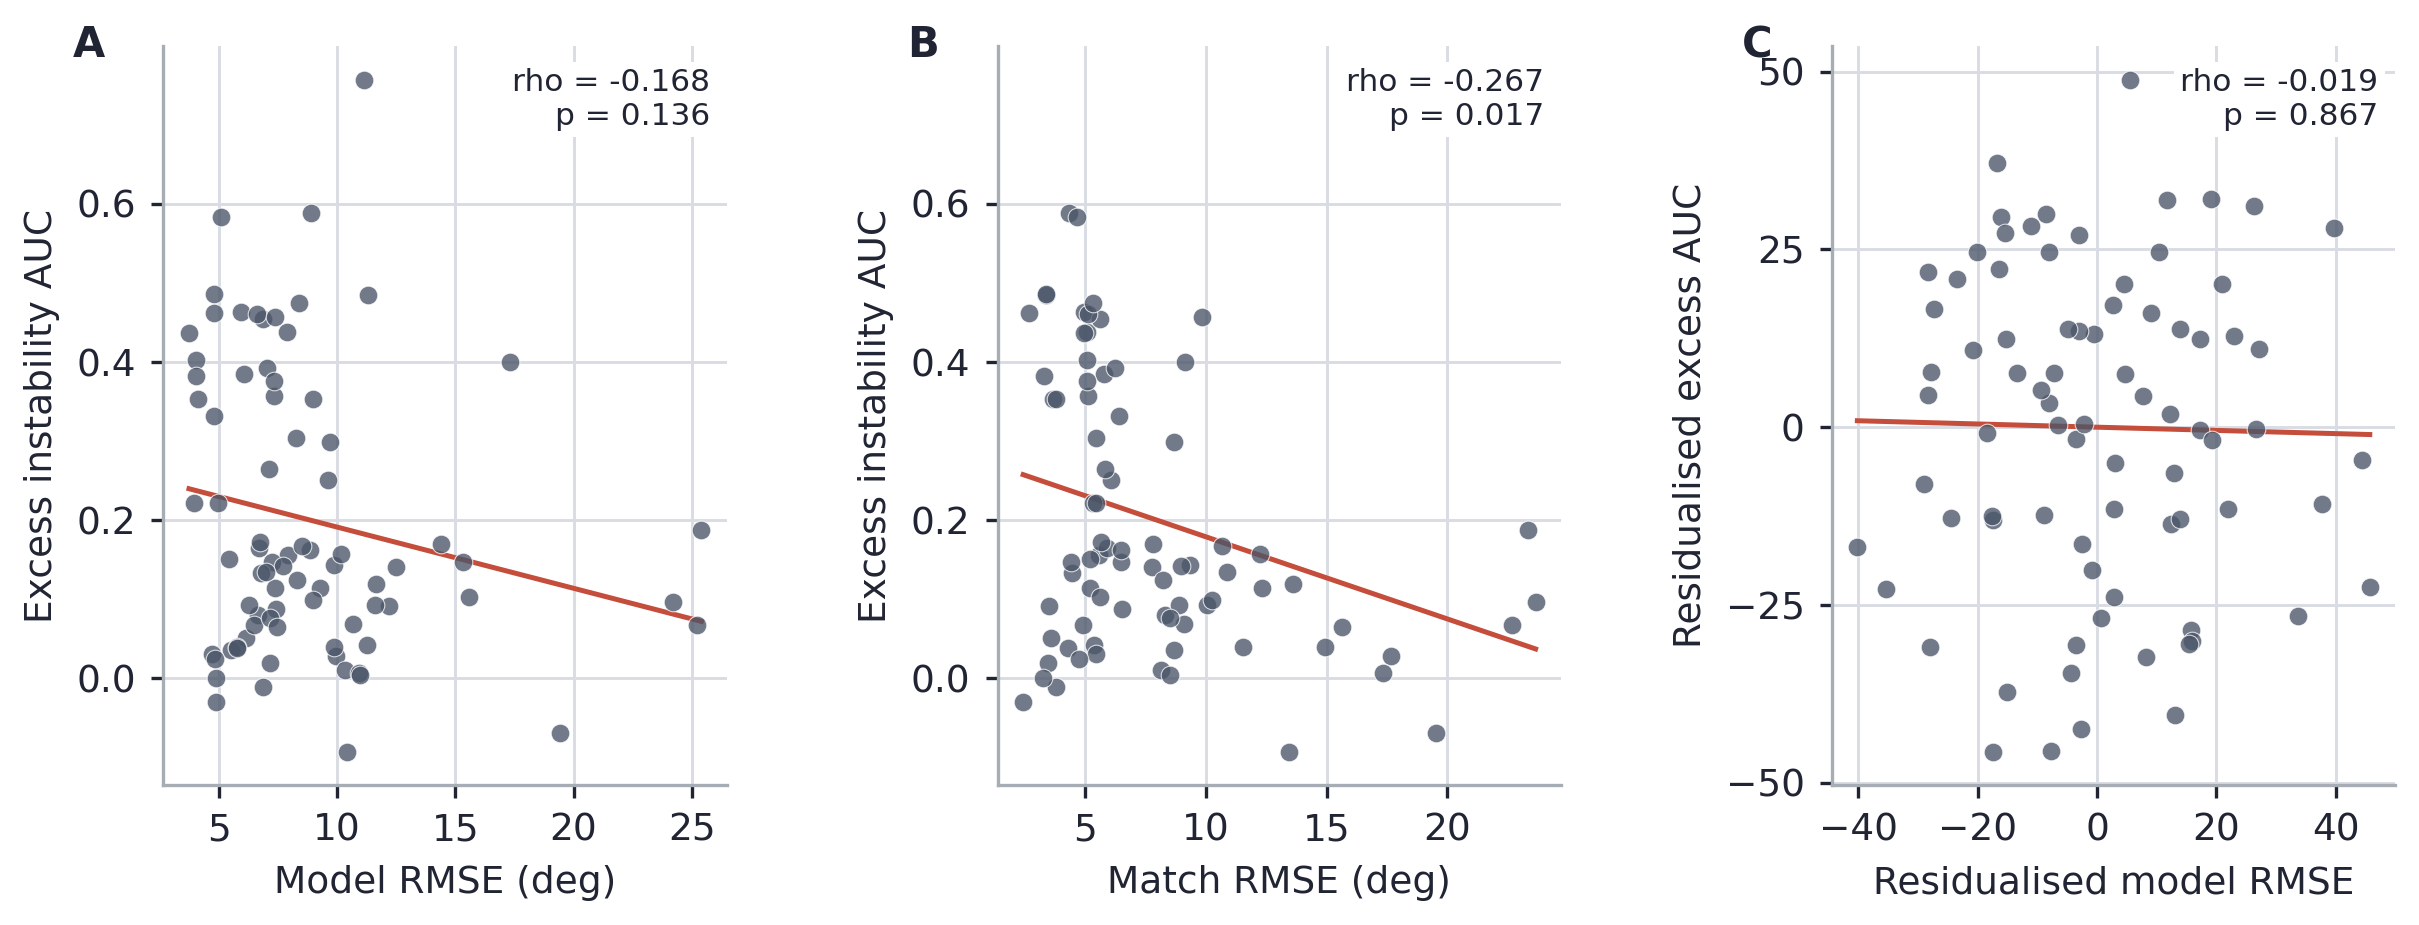
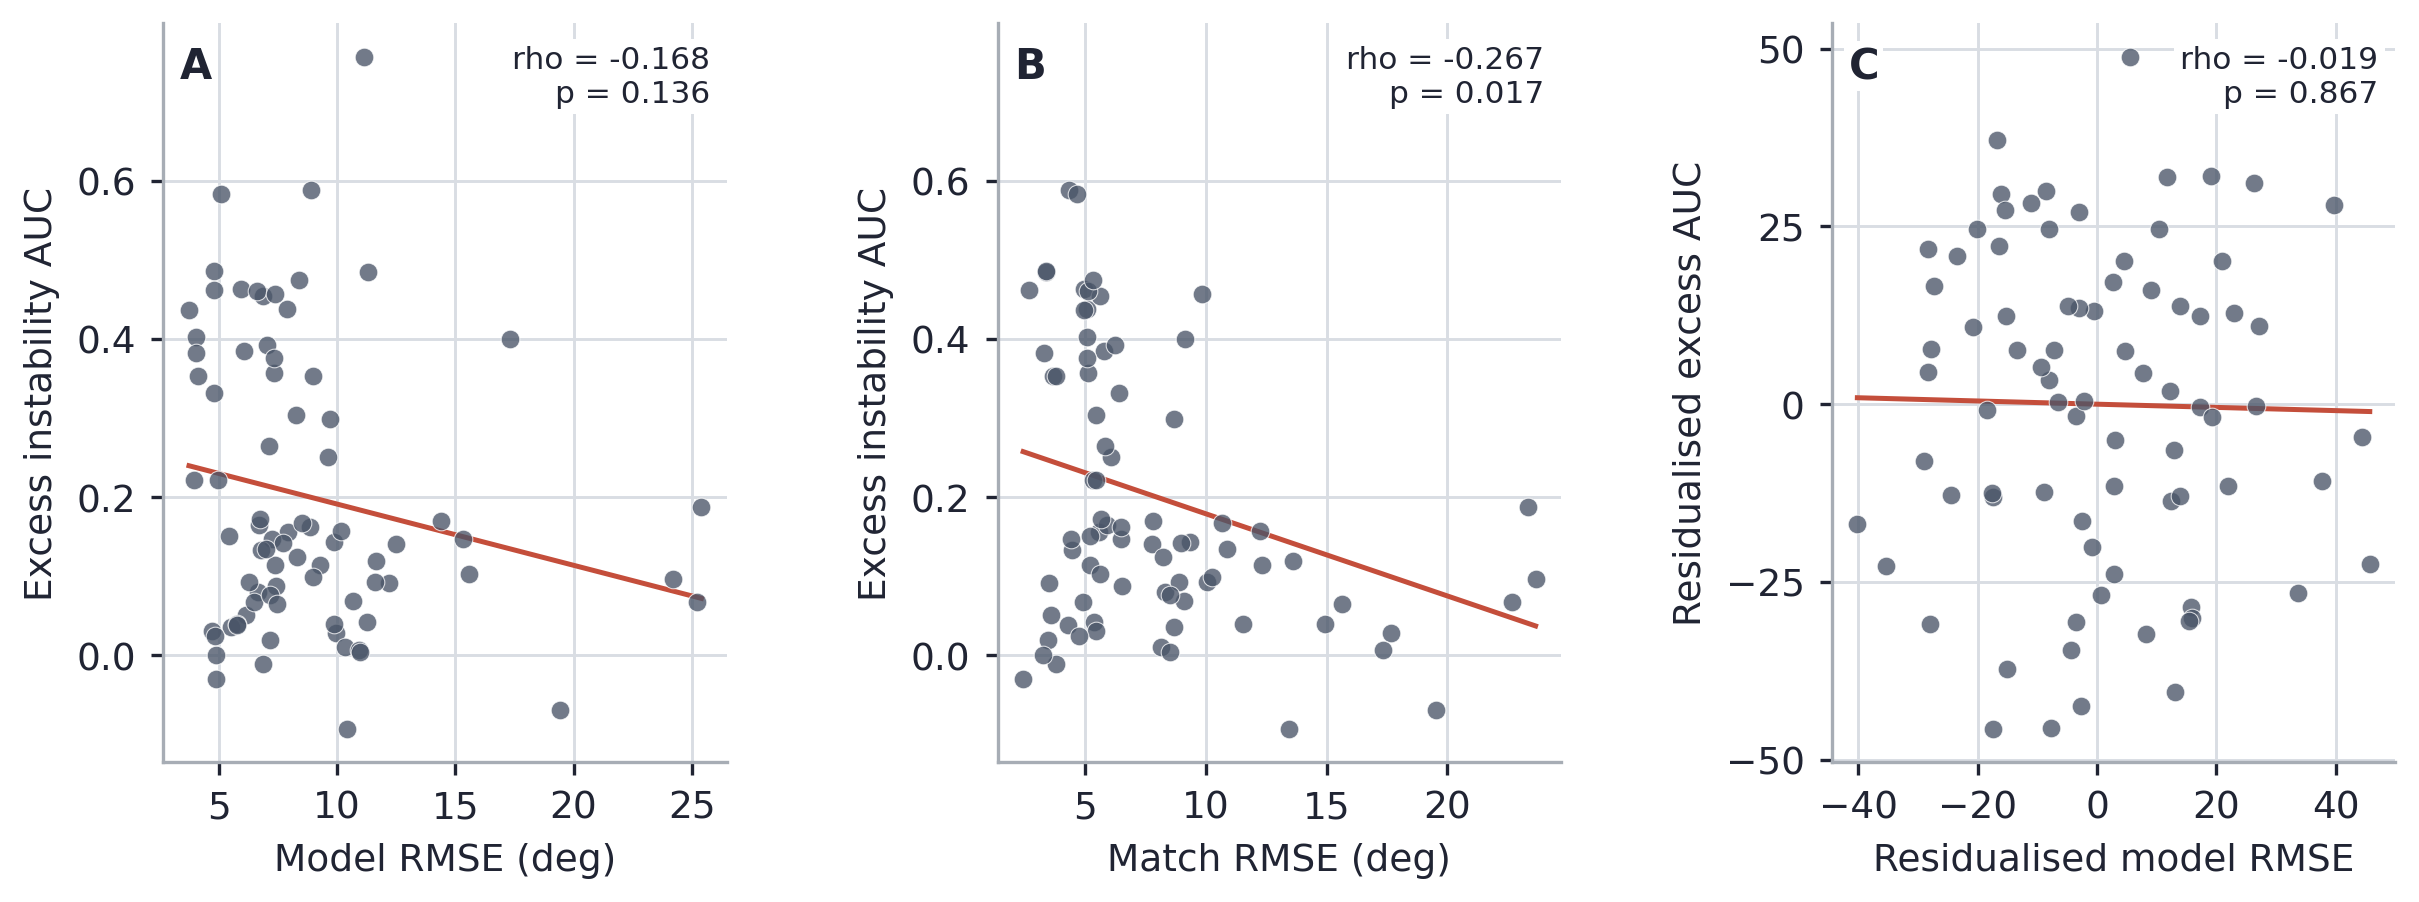
Remove Wilcoxon annotation; fix fig5 panel-label tick collision
Fig 4B: replace 'Wilcoxon p < 0.001' (not in methodology) with
  descriptive stats that are in the paper: '95% of trials > 0,
  Mean = 0.208'
Fig 5: move panel labels A/B/C from outside the axes (where they
  collided with y-tick labels on panel C) to inside the top-left
  corner of each panel, with white background box

diff --git a/analysis/make_paper_figures.py b/analysis/make_paper_figures.py
@@ -715,8 +715,9 @@ def fig4_simulation(sim_df: pd.DataFrame) -> str:
     _lo, _hi = ax_ex.get_ylim()
     ax_ex.set_ylim(_lo, _hi + (_hi - _lo) * 0.22)
     n_pos = int(np.sum(excess > 0))
+    mean_ex = float(np.mean(excess))
     ax_ex.text(0.04, 0.97,
-               f"{100 * n_pos / len(excess):.0f}% > 0\nWilcoxon p < 0.001",
+               f"{100 * n_pos / len(excess):.0f}% of trials > 0\nMean = {mean_ex:.3f}",
                transform=ax_ex.transAxes, ha="left", va="top", fontsize=7.5, color=INK,
                bbox=dict(fc="white", ec="none", pad=1.5))
     ax_ex.text(-0.20, 1.03, "B", transform=ax_ex.transAxes,
@@ -827,8 +828,9 @@ def fig5_correlation(trials_df: pd.DataFrame, partial_sum: dict[str, Any]) -> st
         _grid(ax, "both")
         ax.xaxis.set_major_locator(MaxNLocator(nbins=5))
         ax.yaxis.set_major_locator(MaxNLocator(nbins=5))
-        ax.text(-0.16, 1.03, lbl, transform=ax.transAxes,
-                fontsize=10, fontweight="bold", va="top", color=INK)
+        ax.text(0.03, 0.97, lbl, transform=ax.transAxes,
+                fontsize=10, fontweight="bold", va="top", color=INK,
+                bbox=dict(fc="white", ec="none", pad=1.0))
 
     out = OUT_DIR / "fig5_fwl_correlation.png"
     fig.savefig(out, dpi=300, bbox_inches="tight", pad_inches=0.08)
